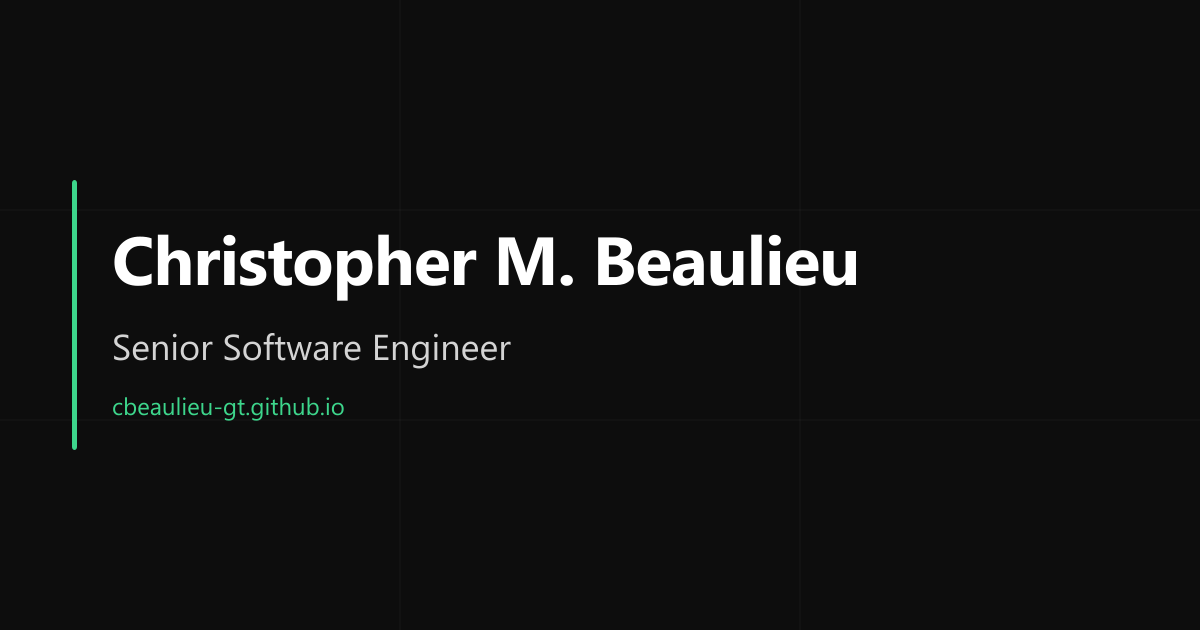
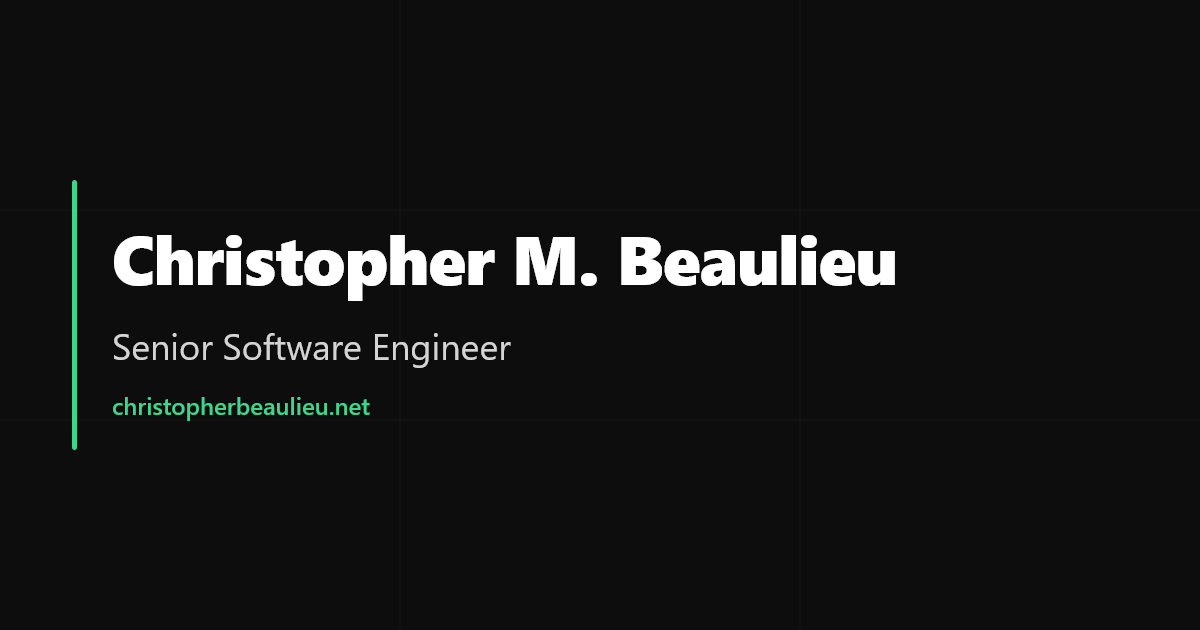
fix(seo): point canonical and OG tags to christopherbeaulieu.net
Google Search Console flagged the custom domain as "Alternate page with
proper canonical tag" because the HTML's canonical, og:url, twitter:image,
JSON-LD url, sitemap, robots.txt, and OG image all pointed at the legacy
github.io subdomain. CNAME correctly serves christopherbeaulieu.net but
the page was telling Google the canonical was elsewhere.

Updates all nine occurrences across index.html, robots.txt, sitemap.xml,
og-image.svg, and README.md. Regenerates og-image.png from the updated
SVG via @resvg/resvg-cli.

closes #29

diff --git a/index.html b/index.html
@@ -17,17 +17,17 @@
       content="Christopher Beaulieu — Senior Software Engineer specializing in backend systems, data pipelines, and cloud infrastructure. Open to new opportunities."
     />
     <meta property="og:type" content="website" />
-    <meta property="og:url" content="https://cbeaulieu-gt.github.io" />
-    <meta property="og:image" content="https://cbeaulieu-gt.github.io/og-image.png" />
+    <meta property="og:url" content="https://christopherbeaulieu.net" />
+    <meta property="og:image" content="https://christopherbeaulieu.net/og-image.png" />
     <meta name="twitter:card" content="summary_large_image" />
     <meta name="twitter:title" content="Christopher Beaulieu — Senior Software Engineer" />
     <meta
       name="twitter:description"
       content="Christopher Beaulieu — Senior Software Engineer specializing in backend systems, data pipelines, and cloud infrastructure. Open to new opportunities."
     />
-    <meta name="twitter:image" content="https://cbeaulieu-gt.github.io/og-image.png" />
+    <meta name="twitter:image" content="https://christopherbeaulieu.net/og-image.png" />
 
-    <link rel="canonical" href="https://cbeaulieu-gt.github.io" />
+    <link rel="canonical" href="https://christopherbeaulieu.net" />
 
     <!-- JSON-LD structured data: helps search engines understand this page as a Person entity -->
     <script type="application/ld+json">
@@ -36,7 +36,7 @@
         "@type": "Person",
         "name": "Christopher Beaulieu",
         "jobTitle": "Senior Software Engineer",
-        "url": "https://cbeaulieu-gt.github.io",
+        "url": "https://christopherbeaulieu.net",
         "sameAs": [
           "https://github.com/cbeaulieu-gt",
           "https://linkedin.com/in/christopher-beaulieu"
@@ -1054,9 +1054,9 @@
             <h3 class="project-name">Siege Assignment Web App</h3>
             <p class="project-desc">
               A full-stack web app for managing Raid Shadow Legends clan siege assignments. Features
-              a drag-and-drop board with an auto-fill algorithm, a real-time validation engine,
-              PNG battle card generation via Playwright, and Discord DM notifications — deployed
-              to Azure Container Apps behind Azure AD auth.
+              a drag-and-drop board with an auto-fill algorithm, a real-time validation engine, PNG
+              battle card generation via Playwright, and Discord DM notifications — deployed to
+              Azure Container Apps behind Azure AD auth.
             </p>
             <div class="project-tags">
               <span class="project-tag">FastAPI</span>

diff --git a/README.md b/README.md
@@ -2,7 +2,7 @@
 
 Personal portfolio site for Christopher M. Beaulieu, Senior Software Engineer. Single-page static site hosted on GitHub Pages.
 
-**Live site:** https://cbeaulieu-gt.github.io
+**Live site:** https://christopherbeaulieu.net
 
 ---
 
